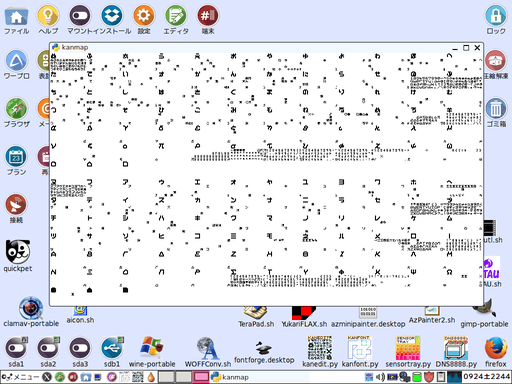
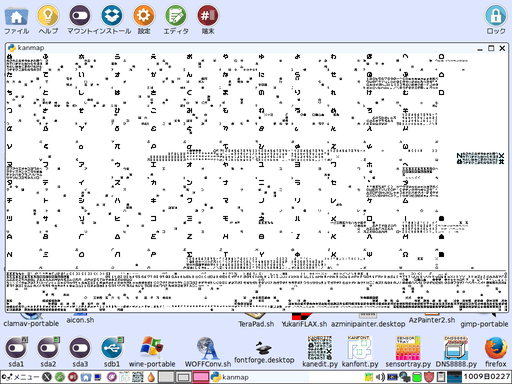
「kanmap.py」で「LTsv/kanmap.tsv」だけでなく「LTsv/kanchar.tsv」のフォントグリフも表示できるよう調整。

diff --git a/kanmap.py b/kanmap.py
@@ -3,6 +3,7 @@
 from __future__ import division,print_function,absolute_import,unicode_literals
 import sys
 import os
+import math
 os.chdir(sys.path[0])
 sys.path.append("LTsv")
 from LTsv_printf  import *
@@ -16,34 +17,16 @@ from LTsv_glyph  import *
 
 
 LTsv_irohaalpha_count=0
-def LTsv_kanmap_drawZero(window_objvoid=None,window_objptr=None):
+def LTsv_kanmap_drawKBDZero():
     global LTsv_irohaalpha_count
     LTsv_widget_settext(kanmap_window,"kanmap:pickling kanmap.tsv")
     LTsv_draw_selcanvas(kanmap_canvas); LTsv_draw_delete(); LTsv_draw_queue();
+    LTsv_glyph_kbddelete(kanmap_canvas)
+    LTsv_glyph_kbddraw(kanmap_canvas,kanmap_kbdX,kanmap_kbdY); LTsv_draw_queue();
     LTsv_irohaalpha_count=0
-    LTsv_window_after(kanmap_window,event_b=LTsv_kanmap_drawCount,event_i="LTsv_kanmap_drawCount",event_w=1)
-
-def LTsv_kanmap_drawCount(window_objvoid=None,window_objptr=None):
-    global LTsv_irohaalpha_count
-    LTsv_kanmap_drawKBD(LTsv_irohaalpha_count); LTsv_draw_queue();
-    LTsv_irohaalpha_count+=1
-    if LTsv_irohaalpha_count < len(LTsv_global_irohaalpha()):
-        LTsv_window_after(kanmap_window,event_b=LTsv_kanmap_drawCount,event_i="LTsv_kanmap_drawCount",event_w=10)
-    else:
-        LTsv_widget_settext(kanmap_window,"kanmap")
+    LTsv_window_after(kanmap_window,event_b=LTsv_kanmap_drawKBDCount,event_i="LTsv_kanmap_drawKBDCount",event_w=10)
 
 def LTsv_kanmap_drawKBD(irohaalpha_count):
-#    LTsv_draw_selcanvas(kanmap_canvas); LTsv_draw_color("black"); LTsv_draw_bgcolor("white")
-#    kbd_x,kbd_y=irohaalpha_count%12*LTsv_glyph_kbdW,irohaalpha_count//12*kanmap_kbdNH
-#    LTsv_glyph_kbdchars[0:LTsv_glyph_irohamax]=LTsv_glyph_kanmapN[LTsv_global_irohaalpha()[irohaalpha_count]][0:LTsv_glyph_irohamax]; LTsv_glyph_kbdchars[LTsv_glyph_irohamax]=LTsv_global_irohaalphaN()[irohaalpha_count]
-#    for kbd_xy in range(LTsv_glyph_None):
-#        LTsv_draw_glyphskbd(draw_t=LTsv_glyph_kbdchars[kbd_xy],draw_x=kbd_x+LTsv_glyph_fontX[kbd_xy],draw_y=kbd_y+LTsv_glyph_fontY[kbd_xy],draw_f=LTsv_glyph_fontG[kbd_xy],draw_g=LTsv_glyph_kbdtype[kbd_xy])
-#    kbd_y+=kanmap_NH
-#    if irohaalpha_count > len(LTsv_global_irohaalpha())-4:
-#        kbd_x,kbd_y=kbd_x+LTsv_glyph_kbdW*9,kbd_y-kanmap_kbdNH*7
-#    LTsv_glyph_kbdchars[0:LTsv_glyph_irohamax]=LTsv_glyph_kanmapX[LTsv_global_irohaalpha()[irohaalpha_count]][0:LTsv_glyph_irohamax]; LTsv_glyph_kbdchars[LTsv_glyph_irohamax]=LTsv_global_irohaalphaX()[irohaalpha_count]
-#    for kbd_xy in range(LTsv_glyph_None):
-#        LTsv_draw_glyphskbd(draw_t=LTsv_glyph_kbdchars[kbd_xy],draw_x=kbd_x+LTsv_glyph_fontX[kbd_xy],draw_y=kbd_y+LTsv_glyph_fontY[kbd_xy],draw_f=LTsv_glyph_fontG[kbd_xy],draw_g=LTsv_glyph_kbdtype[kbd_xy])
     LTsv_draw_selcanvas(kanmap_canvas); LTsv_draw_color("black"); LTsv_draw_bgcolor("white")
     kbd_x,kbd_y=LTsv_glyph_kbdNX[irohaalpha_count],LTsv_glyph_kbdNY[irohaalpha_count]
     LTsv_glyph_kbdchars[0:LTsv_glyph_irohamax]=LTsv_glyph_kanmapN[LTsv_global_irohaalpha()[irohaalpha_count]][0:LTsv_glyph_irohamax]; LTsv_glyph_kbdchars[LTsv_glyph_irohamax]=LTsv_global_irohaalphaN()[irohaalpha_count]
@@ -54,8 +37,47 @@ def LTsv_kanmap_drawKBD(irohaalpha_count):
     for kbd_xy in range(LTsv_glyph_None):
         LTsv_draw_glyphskbd(draw_t=LTsv_glyph_kbdchars[kbd_xy],draw_x=kbd_x+LTsv_glyph_fontX[kbd_xy],draw_y=kbd_y+LTsv_glyph_fontY[kbd_xy],draw_f=LTsv_glyph_fontG[kbd_xy],draw_g=LTsv_glyph_kbdtype[kbd_xy])
 
+def LTsv_kanmap_drawKBDCount(window_objvoid=None,window_objptr=None):
+    global LTsv_irohaalpha_count
+    LTsv_kanmap_drawKBD(LTsv_irohaalpha_count); LTsv_draw_queue();
+    LTsv_irohaalpha_count+=1
+    if LTsv_irohaalpha_count < len(LTsv_global_irohaalpha()):
+        LTsv_window_after(kanmap_window,event_b=LTsv_kanmap_drawKBDCount,event_i="LTsv_kanmap_drawKBDCount",event_w=10)
+    else:
+        LTsv_window_after(kanmap_window,event_b=LTsv_kanmap_drawDICZero,event_i="LTsv_kanmap_drawDICZero",event_w=10)
 
+LTsv_kansplits_count=0
+def LTsv_kanmap_drawDICZero(window_objvoid=None,window_objptr=None):
+    LTsv_widget_settext(kanmap_window,"kanmap:pickling LTsv/kanchar.tsv")
+    LTsv_draw_selcanvas(kanmap_canvas); LTsv_draw_color("black"); LTsv_draw_bgcolor("black")
+    LTsv_draw_polygonfill(LTsv_glyph_kbdF//2,LTsv_glyph_dicY-LTsv_glyph_kbdF//2,kanmap_canvasW-LTsv_glyph_kbdF//2,LTsv_glyph_dicY-LTsv_glyph_kbdF//2,kanmap_canvasW-LTsv_glyph_kbdF//2,LTsv_glyph_dicY-LTsv_glyph_kbdF//2-1,LTsv_glyph_kbdF//2,LTsv_glyph_dicY-LTsv_glyph_kbdF//2-1)
+    LTsv_draw_queue()
+    LTsv_window_after(kanmap_window,event_b=LTsv_kanmap_drawDICCount,event_i="LTsv_kanmap_drawDICCount",event_w=10)
 
+def LTsv_kanmap_drawDIC(kansplits_count):
+    LTsv_draw_selcanvas(kanmap_canvas); LTsv_draw_color("black"); LTsv_draw_bgcolor("white")
+    dicY=LTsv_glyph_dicY+LTsv_glyph_kbdF*kansplits_count//kanmap_kansplits_linelen
+    for kbd_xy in range(min(kanmap_kansplits_linelen,len(LTsv_kansplits)-kansplits_count)):
+        LTsv_draw_glyphskbd(draw_t=LTsv_kansplits[kansplits_count+kbd_xy][0:1],draw_x=kbd_xy*LTsv_glyph_kbdF,draw_y=dicY)
+
+def LTsv_kanmap_drawDICCount(window_objvoid=None,window_objptr=None):
+    global LTsv_kansplits_count
+    LTsv_kanmap_drawDIC(LTsv_kansplits_count); LTsv_draw_queue();
+    LTsv_kansplits_count+=kanmap_kansplits_linelen
+    if LTsv_kansplits_count < len(LTsv_kansplits):
+        LTsv_window_after(kanmap_window,event_b=LTsv_kanmap_drawDICCount,event_i="LTsv_kanmap_drawDICCount",event_w=10)
+    else:
+        LTsv_widget_settext(kanmap_window,"kanmap")
+
+def LTsv_kanmap_mousepress(window_objvoid=None,window_objptr=None):
+    if LTsv_glyph_mousepress(kanmap_canvas,kanmap_kbdX,kanmap_kbdY) == LTsv_global_kbdcursorNone():
+        pass
+
+def LTsv_kanmap_mousemotion(window_objvoid=None,window_objptr=None):
+    LTsv_glyph_mousemotion(kanmap_canvas,kanmap_kbdX,kanmap_kbdY)
+
+def LTsv_kanmap_mouserelease(window_objvoid=None,window_objptr=None):
+    LTsv_glyph_mouserelease(kanmap_canvas,kanmap_kbdX,kanmap_kbdY)
 
 def kanmap_configsave_exit(window_objvoid=None,window_objptr=None):
     LTsv_glyph_picklesave()
@@ -79,20 +101,27 @@ if len(LTsv_GUI) > 0:
     LTsv_glyph_fontX[LTsv_glyph_irohamax],LTsv_glyph_fontY[LTsv_glyph_irohamax],LTsv_glyph_fontG[LTsv_glyph_irohamax]=LTsv_glyph_kbdG=1+LTsv_glyph_kbdF*0,1,LTsv_glyph_kbdG*2
     LTsv_glyph_kbdtype=tuple(["活" if t < LTsv_glyph_irohamax else "漫" for t in range(LTsv_glyph_None)])
     kanmap_kbdNH=LTsv_glyph_kbdH+LTsv_glyph_kbdF*2
-    kanmap_NH=kanmap_kbdNH*(4+3)
+    kanmap_NH=kanmap_kbdNH*(4+2)
     LTsv_glyph_kbdNX,LTsv_glyph_kbdNY=[0]*len(LTsv_global_irohaalpha()),[0]*len(LTsv_global_irohaalpha())
     LTsv_glyph_kbdXX,LTsv_glyph_kbdXY=[0]*len(LTsv_global_irohaalpha()),[0]*len(LTsv_global_irohaalpha())
     for map_xy in range(len(LTsv_global_irohaalpha())):
-        LTsv_glyph_kbdNX[map_xy],LTsv_glyph_kbdNY[map_xy]=map_xy%12*LTsv_glyph_kbdW,map_xy//12*kanmap_kbdNH
-        LTsv_glyph_kbdXX[map_xy],LTsv_glyph_kbdXY[map_xy]=map_xy%12*LTsv_glyph_kbdW,map_xy//12*kanmap_kbdNH+kanmap_NH
-        if map_xy < len(LTsv_global_irohaalpha())-4: continue;
-        LTsv_glyph_kbdXX[map_xy],LTsv_glyph_kbdXY[map_xy]=LTsv_glyph_kbdXX[map_xy]+LTsv_glyph_kbdW*9,LTsv_glyph_kbdXY[map_xy]-kanmap_kbdNH*7
-    kanmap_canvasW,kanmap_canvasH=LTsv_glyph_kbdW*12,kanmap_NH*2-kanmap_kbdNH*1
+        if map_xy < len(LTsv_global_irohaalpha())-3:
+            LTsv_glyph_kbdNX[map_xy],LTsv_glyph_kbdNY[map_xy]=map_xy%12*LTsv_glyph_kbdW,map_xy//12*kanmap_kbdNH
+            LTsv_glyph_kbdXX[map_xy],LTsv_glyph_kbdXY[map_xy]=map_xy%12*LTsv_glyph_kbdW,map_xy//12*kanmap_kbdNH+kanmap_NH
+        else:
+            LTsv_glyph_kbdNX[map_xy],LTsv_glyph_kbdNY[map_xy]=LTsv_glyph_kbdW*12,(map_xy%12+0)*kanmap_kbdNH
+            LTsv_glyph_kbdXX[map_xy],LTsv_glyph_kbdXY[map_xy]=LTsv_glyph_kbdW*12,(map_xy%12+3)*kanmap_kbdNH+kanmap_NH
+    LTsv_glyph_dicY=kanmap_NH*2+LTsv_glyph_kbdF
+    kanmap_canvasW,kanmap_canvasH=LTsv_glyph_kbdF*int(math.ceil(1000/LTsv_glyph_kbdF)),LTsv_glyph_dicY
+    kanmap_kansplits_linelen=kanmap_canvasW//LTsv_glyph_kbdF
+    LTsv_glyph_kandic=LTsv_global_kandic(); LTsv_kansplits=LTsv_glyph_kandic.rstrip('\n').split('\n')
+    LTsv_kansplits_len=len(LTsv_kansplits)//kanmap_kansplits_linelen
+    kanmap_canvasH=kanmap_canvasH+LTsv_kansplits_len*LTsv_glyph_kbdF
+    kanmap_kbdX,kanmap_kbdY=kanmap_canvasW-LTsv_global_glyphkbdW()-LTsv_glyph_kbdF,kanmap_NH-kanmap_kbdNH//2
     kanmapW,kanmapH=kanmap_canvasW,kanmap_canvasH
     kanmap_window=LTsv_window_new(widget_t="kanmap",event_b=kanmap_configsave_exit,widget_w=kanmapW,widget_h=kanmapH,event_k=None,event_y=None)
     kanmap_canvas=LTsv_canvas_new(kanmap_window,widget_x=0,widget_y=0,widget_w=kanmap_canvasW,widget_h=kanmap_canvasH,
-#     event_p=kanmap_mousepress,event_m=kanmap_mousemotion,event_r=kanmap_mouserelease,event_e=kanmap_mouseenter,event_l=kanmap_mouseleave,event_w=50)
-     event_p=None,event_m=None,event_r=None,event_e=None,event_l=None,event_w=50)
+     event_p=LTsv_kanmap_mousepress,event_m=LTsv_kanmap_mousemotion,event_r=LTsv_kanmap_mouserelease,event_e=None,event_l=None,event_w=50)
     LTsv_widget_showhide(kanmap_window,True)
     LTsv_draw_selcanvas,LTsv_draw_delete,LTsv_draw_queue,LTsv_draw_picture=LTsv_draw_selcanvas_shell(LTsv_GUI),LTsv_draw_delete_shell(LTsv_GUI),LTsv_draw_queue_shell(LTsv_GUI),LTsv_draw_picture_shell(LTsv_GUI)
     LTsv_draw_color,LTsv_draw_bgcolor,LTsv_draw_font,LTsv_draw_text=LTsv_draw_color_shell(LTsv_GUI),LTsv_draw_bgcolor_shell(LTsv_GUI),LTsv_draw_font_shell(LTsv_GUI),LTsv_draw_text_shell(LTsv_GUI)
@@ -101,7 +130,7 @@ if len(LTsv_GUI) > 0:
     LTsv_draw_circles,LTsv_draw_circlesfill=LTsv_draw_circles_shell(LTsv_GUI),LTsv_draw_circlesfill_shell(LTsv_GUI)
     LTsv_draw_points=LTsv_draw_points_shell(LTsv_GUI)
     LTsv_draw_arc,LTsv_draw_arcfill=LTsv_draw_arc_shell(LTsv_GUI),LTsv_draw_arcfill_shell(LTsv_GUI)
-    LTsv_kanmap_drawZero()
+    LTsv_kanmap_drawKBDZero()
     LTsv_window_main(kanmap_window)
 else:
     LTsv_libc_printf("GUIの設定に失敗しました。")
